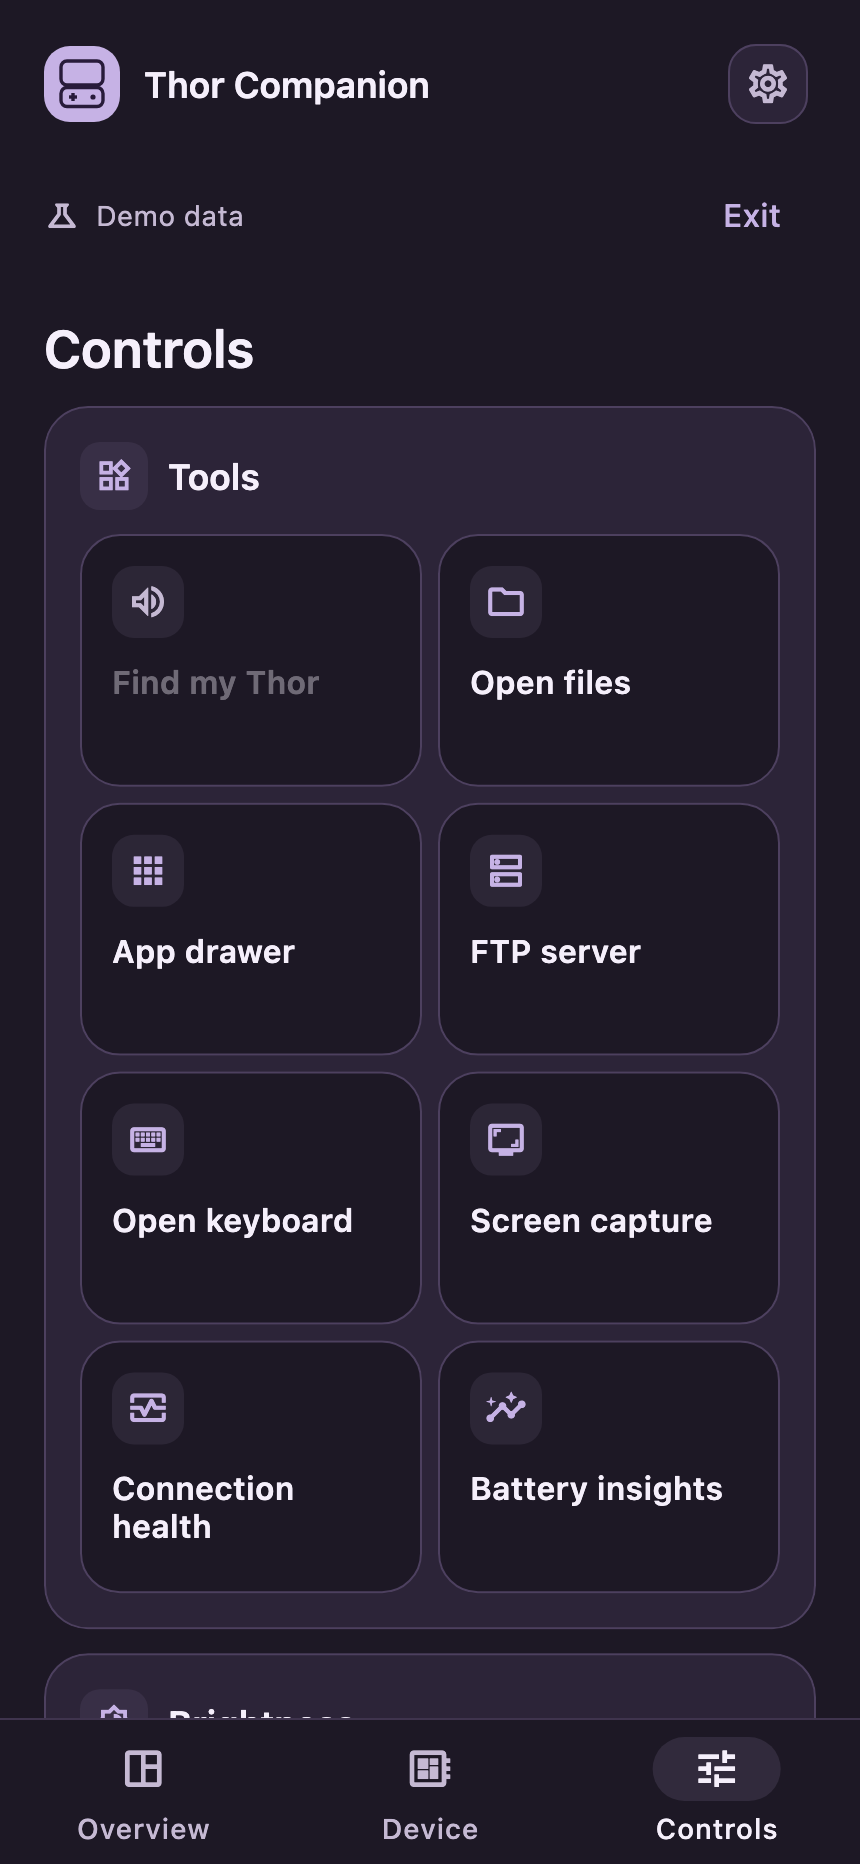
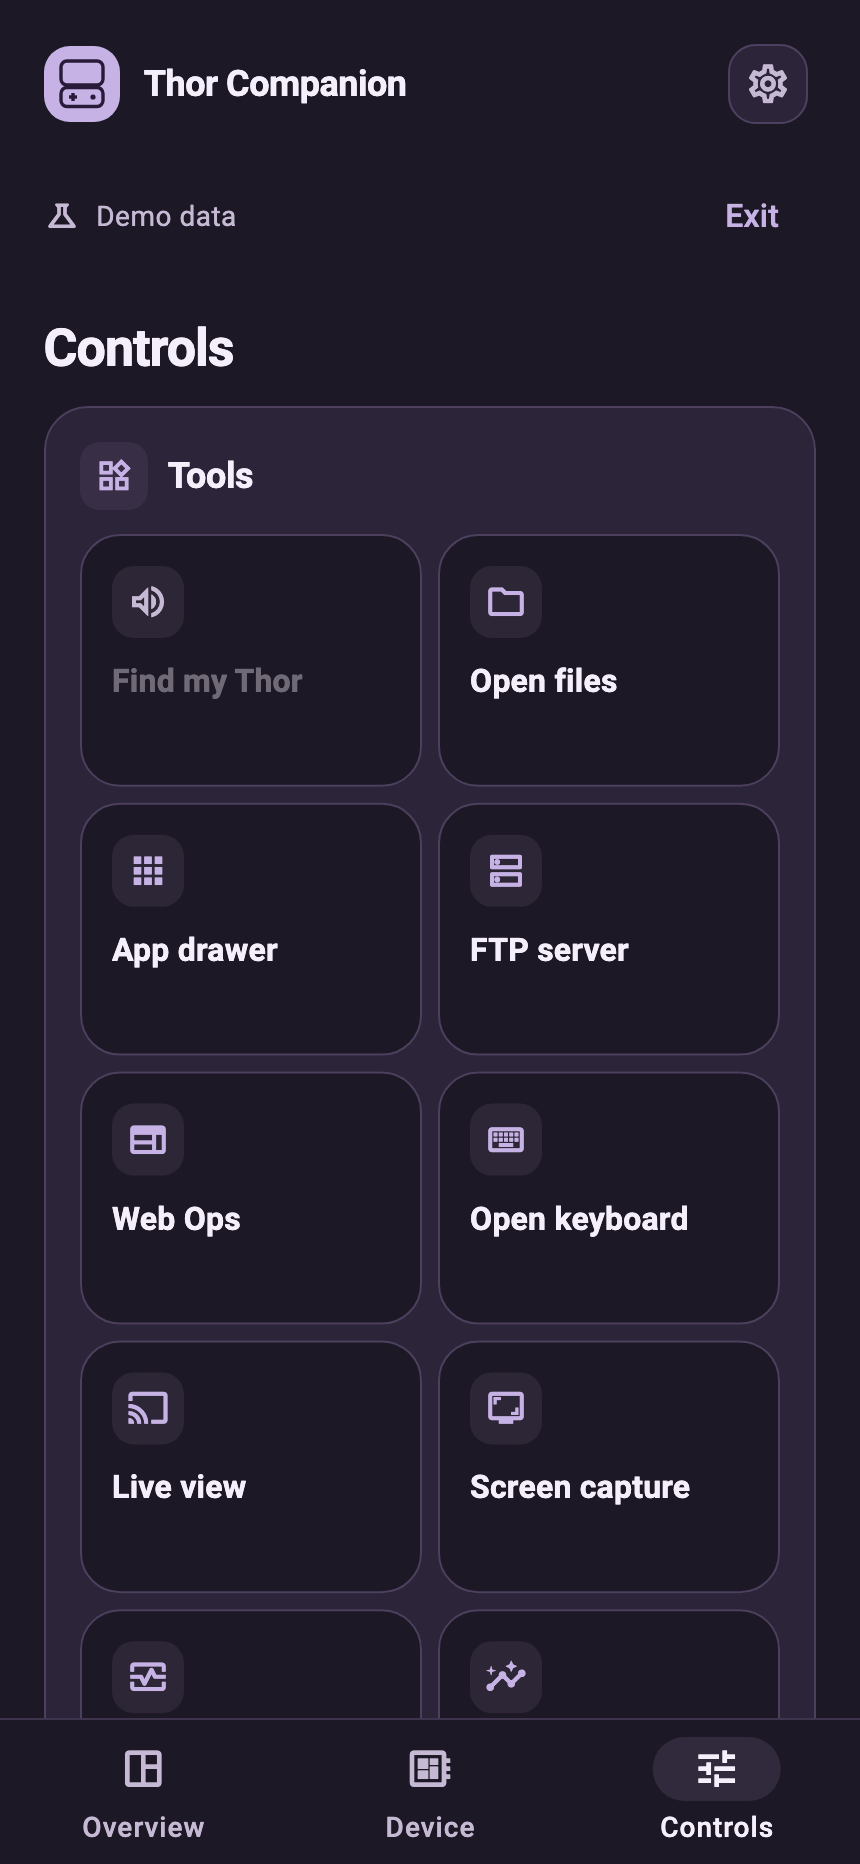
Update README screenshots and setup guide for 0.18.0

diff --git a/outputs/thor-companion/test/readme_screens_test.dart b/outputs/thor-companion/test/readme_screens_test.dart
@@ -1,0 +1,133 @@
+// Renders the README screenshots. Skipped unless THOR_README_SHOTS names an
+// output folder, e.g.:
+//   THOR_README_SHOTS=/tmp/shots flutter test test/readme_screens_test.dart
+import 'dart:io';
+import 'dart:ui' as ui;
+
+import 'package:flutter/material.dart';
+import 'package:flutter/services.dart';
+import 'package:flutter_test/flutter_test.dart';
+import 'package:thor_companion/companion_controller.dart';
+import 'package:thor_companion/device_switcher.dart';
+import 'package:thor_companion/main.dart';
+import 'package:thor_companion/saved_devices.dart';
+import 'package:thor_companion/ui.dart';
+
+final _out = Platform.environment['THOR_README_SHOTS'];
+
+Future<void> _font(String family, List<String> files) async {
+  final root =
+      '${Platform.environment['FLUTTER_ROOT']}/bin/cache/artifacts/material_fonts';
+  final loader = FontLoader(family);
+  for (final f in files) {
+    loader.addFont(
+      Future.value(ByteData.sublistView(File('$root/$f').readAsBytesSync())),
+    );
+  }
+  await loader.load();
+}
+
+Future<void> _save(WidgetTester tester, String name) async {
+  await tester.runAsync(() async {
+    final image = await captureImage(
+      find.byType(MaterialApp).evaluate().single,
+    );
+    final png = await image.toByteData(format: ui.ImageByteFormat.png);
+    File('$_out/$name.png').writeAsBytesSync(png!.buffer.asUint8List());
+    image.dispose();
+  });
+}
+
+void main() {
+  setUpAll(() async {
+    if (_out == null) return;
+    await _font('Roboto', [
+      'Roboto-Regular.ttf',
+      'Roboto-Medium.ttf',
+      'Roboto-Bold.ttf',
+    ]);
+    await _font('MaterialIcons', ['MaterialIcons-Regular.otf']);
+  });
+
+  testWidgets('README screenshots', (tester) async {
+    tester.view.physicalSize = const Size(860, 1864);
+    tester.view.devicePixelRatio = 2;
+    addTearDown(tester.view.resetPhysicalSize);
+    addTearDown(tester.view.resetDevicePixelRatio);
+    final c = CompanionController.demo();
+    await tester.pumpWidget(
+      ThorCompanionApp(
+        controller: c,
+        initialThemeMode: ThemeMode.dark,
+        initialAppearance: AppAppearance.clearPurple,
+      ),
+    );
+    await tester.pumpAndSettle();
+    await _save(tester, 'client-overview');
+
+    c.activity = {
+      'apps': [
+        {'d': 0, 'p': 'org.retroarch', 'name': 'RetroArch', 'cpu': 12.4},
+        {'d': 4, 'p': 'com.android.chrome', 'name': 'Chrome', 'cpu': 1.8},
+      ],
+    };
+    c.notifyListeners();
+    await tester.pumpAndSettle();
+
+    await tester.scrollUntilVisible(
+      find.text('Focused apps'),
+      300,
+      scrollable: find.byType(Scrollable).first,
+    );
+    await tester.runAsync(
+      () => Scrollable.ensureVisible(
+        tester.element(find.text('Focused apps')),
+        alignment: .02,
+      ),
+    );
+    await tester.pumpAndSettle();
+    await _save(tester, 'client-focused-apps');
+
+    await tester.tap(find.text('Controls').last);
+    await tester.pumpAndSettle();
+    await _save(tester, 'client-controls');
+
+    await tester.tap(find.byIcon(Icons.settings_outlined).first);
+    await tester.pumpAndSettle();
+    await _save(tester, 'client-settings');
+    await tester.tap(find.text('Appearance').last);
+    await tester.pumpAndSettle();
+    await _save(tester, 'client-themes');
+    Navigator.of(tester.element(find.text('Appearance').last)).pop();
+    await tester.pumpAndSettle();
+
+    await tester.tap(find.text('Overview').last);
+    await tester.pumpAndSettle();
+    await tester.drag(find.byType(Scrollable).first, const Offset(0, 4000));
+    await tester.pumpAndSettle();
+    c.devices = const [
+      SavedDevice('demo', 'My AYN Thor', product: 'AYN Thor Max'),
+      SavedDevice(
+        'retroid',
+        'Retroid Pocket Classic',
+        product: 'Retroid Pocket Classic 6 GB',
+        screens: 1,
+      ),
+      SavedDevice(
+        'odin',
+        'Living room handheld',
+        product: 'Handheld Device',
+        screens: 1,
+      ),
+    ];
+    c.remembered = c.selected;
+    unawaited(showDevices(tester.element(find.byType(Scaffold).first), c));
+    await tester.pumpAndSettle();
+    await _save(tester, 'client-devices');
+
+    await tester.pumpWidget(const SizedBox());
+    c.dispose();
+  }, skip: _out == null);
+}
+
+void unawaited(Future<void> f) {}

diff --git a/docs/setup.md b/docs/setup.md
@@ -1,14 +1,14 @@
 # Setup guide
 
-Install **Thor Monitor** on your Thor and **Thor Companion** on your phone.
+Install **Thor Monitor** on each handheld (AYN Thor, Retroid Pocket Classic or another Android handheld) and **Thor Companion** on your phone.
 
-## 1. Set up your Thor
+## 1. Set up your handheld
 
 Open Thor Monitor and follow the setup screens.
 
 ### Choose your color
 
-Pick a theme and icon to match your Thor. You can change these later in Appearance.
+Pick a theme and icon. You can change these later in Appearance.
 
 <img src="assets/onboarding/step-1.png" alt="Choose a color in Thor Monitor setup" width="420">
 
@@ -22,17 +22,23 @@ Continue through advanced controls and optional features, then **start monitorin
 
 ## 2. Connect your phone
 
-1. Keep the Thor open and unlocked.
+1. Keep the handheld open and unlocked.
 2. Open Thor Companion and allow Bluetooth access.
-3. Find your Thor, tap **Connect**, and confirm pairing on both devices.
+3. Find your device, tap **Connect**, and confirm pairing on both devices.
 
 <img src="assets/onboarding/step-6.png" alt="Connect your phone and confirm Bluetooth pairing" width="420">
 
-The app remembers your Thor and reconnects automatically. **Disconnect** pauses this until you tap **Reconnect**.
+The app remembers the device and reconnects automatically. **Disconnect** pauses this until you tap **Reconnect**.
+
+### Add more handhelds
+
+Tap the device name at the top of the dashboard to open **Your devices**. Choose **Add a device**, keep Thor Monitor open on the new handheld, and pair it. Tap any saved device to switch to it; one is connected at a time. Each device keeps its own Bluetooth pairing and Wi-Fi/VPN details. **⋯ → Forget device** removes one.
+
+The app adapts to each device: single-screen handhelds hide the top/bottom choices, and controls a device doesn't have are hidden.
 
 ## 3. Enable advanced controls
 
-For fan, performance and power controls, pair Thor Monitor with Android’s wireless debugging service. You only need the Thor for this.
+For power controls, screen capture and (on AYN devices) fan and performance modes, pair Thor Monitor with Android’s wireless debugging service. You only need the handheld for this.
 
 1. Connect to trusted Wi-Fi. In Android Settings, tap **Build number** seven times to enable Developer options if needed.
 2. In Thor Monitor, open **gear → Controls recovery → Recovery setup → Open wireless debugging**. Enable it and approve the network prompt.
@@ -40,38 +46,51 @@ For fan, performance and power controls, pair Thor Monitor with Android’s wire
 4. Enter its **pairing port** and six-digit code in Thor Monitor, then tap **Pair**. Use the port shown beside the code, not the ordinary connection port.
 5. Enable automatic controls recovery and wait for **Advanced controls ready**.
 
-After restarting, unlock the Thor once. Controls reconnect when Wi-Fi and wireless debugging are available. Android may ask you to approve a new network.
+After restarting, unlock the handheld once. Controls reconnect when Wi-Fi and wireless debugging are available. Android may ask you to approve a new network.
+
+## 4. Use it away from home (optional)
+
+Thor Companion uses Wi-Fi or a VPN whenever the device answers, and falls back to Bluetooth.
+
+1. Turn on **Wi-Fi access** in Thor Monitor and connect once over Bluetooth at home so the phone learns the device's addresses.
+2. Install a VPN such as **Tailscale** on both the handheld and the phone, and sign in to the same account. Keep it running on the handheld while you're home once, so the phone learns its VPN address. You can also enter the address under **gear → Connection health**.
+3. Away from home, open Thor Companion with the VPN on. It connects without Bluetooth.
+
+Bluetooth is still used for first pairing, changing the handheld's Wi-Fi, and background alerts.
 
 ## Optional features
 
 Choose these during setup, or return to them in the host settings later.
 
-<img src="assets/onboarding/step-5.png" alt="Optional Wi-Fi, Find my Thor, keyboard and battery saving setup" width="420">
+<img src="assets/onboarding/step-5.png" alt="Optional Wi-Fi, Find my, keyboard and battery saving setup" width="420">
 
 | Feature | Setup |
 | --- | --- |
-| Wi-Fi controls, files and screen capture | Turn on **Wi-Fi access** on the Thor and allow **Local Network** on iPhone. Follow the Bluetooth linking prompt, then choose which folders to share. Existing VPN settings are unchanged. |
-| Screen recording | Open **Controls → Screen capture → Video** on the phone. Choose a screen and quality, record, then **Stop & save**. iPhone also offers 30/60 FPS export. |
-| FTP server | Open **Files → FTP server** on the phone. Start it, then enter the connection details in an FTP client using **explicit TLS** and passive mode. |
+| Wi-Fi controls, files and screen capture | Turn on **Wi-Fi access** on the handheld and allow **Local Network** on iPhone. Follow the Bluetooth linking prompt, then choose which folders to share. Existing VPN settings are unchanged. |
+| Live view | Open **Controls → Live view**. Choose Top, Bottom or Both on a Thor, rotate for landscape, and turn on the virtual controller to play. |
+| Screen recording | Open **Controls → Screen capture → Video** on the phone. Record clips of up to 10 minutes, then **Stop & save**. iPhone also offers 30/60 FPS export. |
+| Web Ops | Turn on **Web Ops** in Thor Monitor and set an owner login. Open the address it shows in a browser on the same Wi-Fi or VPN. Use **Trust this device** once per computer so the browser can save your password. |
+| FTP server | Start it from **Controls → FTP server** on the phone or **Files → Desktop file transfer** in Web Ops. Web Ops has copy buttons for each detail and **Download for WinSCP / FileZilla** (WinSCP: **Tools → Import Sites → FileZilla**). Use **explicit TLS** and passive mode. Turn on **Keep the same password** if you don't want a new password each time. |
 | App drawer | Tap a focused-screen box or **Open apps** in Controls. Open apps can be switched, moved or stopped. |
 | Phone keyboard | Open **Phone keyboard** in the host settings and follow the prompts. |
-| Find my Thor | Allow **Stop panel over apps** on the Thor to dismiss the sound over any app. |
-| Battery alerts | Open **gear → Battery notifications** on your phone, choose your alerts and send a test. Keep the app running in the background to receive them. |
-| Battery widgets | Add **Thor Battery** to your Home or Lock Screen. Turn on **Live battery** in the app for more frequent updates. |
+| Find my device | Allow **Stop panel over apps** on the handheld to dismiss the sound over any app. |
+| Battery alerts | Open **gear → Notifications** on your phone, choose your alerts and send a test. Keep the app running in the background to receive them. |
+| Battery widgets | Add the battery widget to your Home or Lock Screen. Turn on **Live battery** in the app for more frequent updates. |
 | Battery history | Tap **Battery insights** below the battery card. The graph fills in as you use the app. |
 
 ## Overnight battery saving
 
-On the Thor, open **gear → Monitoring → Battery saving** and add your trusted Wi-Fi.
+On the handheld, open **gear → Monitoring → Battery saving** and add your trusted Wi-Fi.
 
-By default, on trusted Wi-Fi, the Thor can sleep after **3 hours with screens off** between **9 PM and 6 AM**. You can change those times or turn on **Keep awake while plugged in**. Allow **Alarms & reminders** so monitoring can resume at the scheduled time without waking the screens.
+By default, on trusted Wi-Fi, the handheld can sleep after **3 hours with screens off** between **9 PM and 6 AM**. You can change those times or turn on **Keep awake while plugged in**. Allow **Alarms & reminders** so monitoring can resume at the scheduled time without waking the screens.
 
 ## Need help?
 
 - **No readings:** Open Thor Monitor, start monitoring, then reconnect from the phone.
+- **Device not found when adding it:** Keep Thor Monitor open on the handheld with Bluetooth on, and make sure monitoring is running.
+- **Pairing needs repair:** Tap **Fix** on the warning, or dismiss it with **✕** and use **gear → Connection health** later.
 - **Controls unavailable:** Open Recovery setup and retry; check for a wireless-debugging approval prompt.
-- **Screenshots or files won't connect:** Check Wi-Fi access and network reachability. Screen capture also needs advanced controls and an open, unlocked Thor.
-- **Review permissions:** Use **gear → Review setup** on the Thor.
+- **Screenshots, live view or files won't connect:** Check Wi-Fi access and network reachability (or your VPN). Screen capture also needs advanced controls and an open, unlocked handheld.
+- **Review permissions:** Use **gear → Review setup** on the handheld.
 
 [Back to downloads](../README.md) · [Sound credits](sound-credits.md)
-

diff --git a/README.md b/README.md
@@ -36,13 +36,17 @@ The IPA is a development build and needs valid signing or re-signing to install.
 Current interface with sample readings.
 
 <table>
-<tr><th>Overview</th><th>Controls</th></tr>
-<tr><td><img src="docs/assets/client-overview.png" alt="Thor Companion overview with sample readings" width="280"></td><td><img src="docs/assets/client-controls.png" alt="Client tools and controls" width="280"></td></tr>
+<tr><th>Overview</th><th>Your devices</th></tr>
+<tr><td><img src="docs/assets/client-overview.png" alt="Thor Companion overview with sample readings" width="280"></td><td><img src="docs/assets/client-devices.png" alt="Device switcher listing an AYN Thor, a Retroid Pocket Classic and another handheld" width="280"></td></tr>
+<tr><th>Controls</th><th>Focused apps and storage</th></tr>
+<tr><td><img src="docs/assets/client-controls.png" alt="Controls with Find my, files, app drawer, FTP, Web Ops, keyboard, live view and screen capture" width="280"></td><td><img src="docs/assets/client-focused-apps.png" alt="Focused apps for both screens, internal storage type and microSD card size" width="280"></td></tr>
 <tr><th>Settings</th><th>Themes</th></tr>
-<tr><td><img src="docs/assets/client-settings.png" alt="Client settings tiles" width="280"></td><td><img src="docs/assets/client-themes.png" alt="Light, Dark, Clear Purple and Rainbow theme previews" width="280"></td></tr>
-<tr><th>Focused apps</th><th>Thor Monitor</th></tr>
-<tr><td><img src="docs/assets/client-focused-apps.png" alt="Top and bottom focused apps with centered icons" width="280"></td><td><img src="docs/assets/host-overview.png" alt="Thor Monitor overview" width="320"></td></tr>
+<tr><td><img src="docs/assets/client-settings.png" alt="Settings tiles" width="280"></td><td><img src="docs/assets/client-themes.png" alt="Light, Dark, Clear Purple and Rainbow theme previews" width="280"></td></tr>
+<tr><th>Thor Monitor on an AYN Thor</th><th>Thor Monitor on a Retroid Pocket Classic</th></tr>
+<tr><td><img src="docs/assets/host-overview.png" alt="Thor Monitor overview on an AYN Thor Max" width="320"></td><td><img src="docs/assets/host-retroid.png" alt="Thor Monitor overview on a Retroid Pocket Classic 6 GB" width="320"></td></tr>
 </table>
+
+Phone screenshots are rendered from the app's demo data by `test/readme_screens_test.dart`.
 
 ## Features
 
